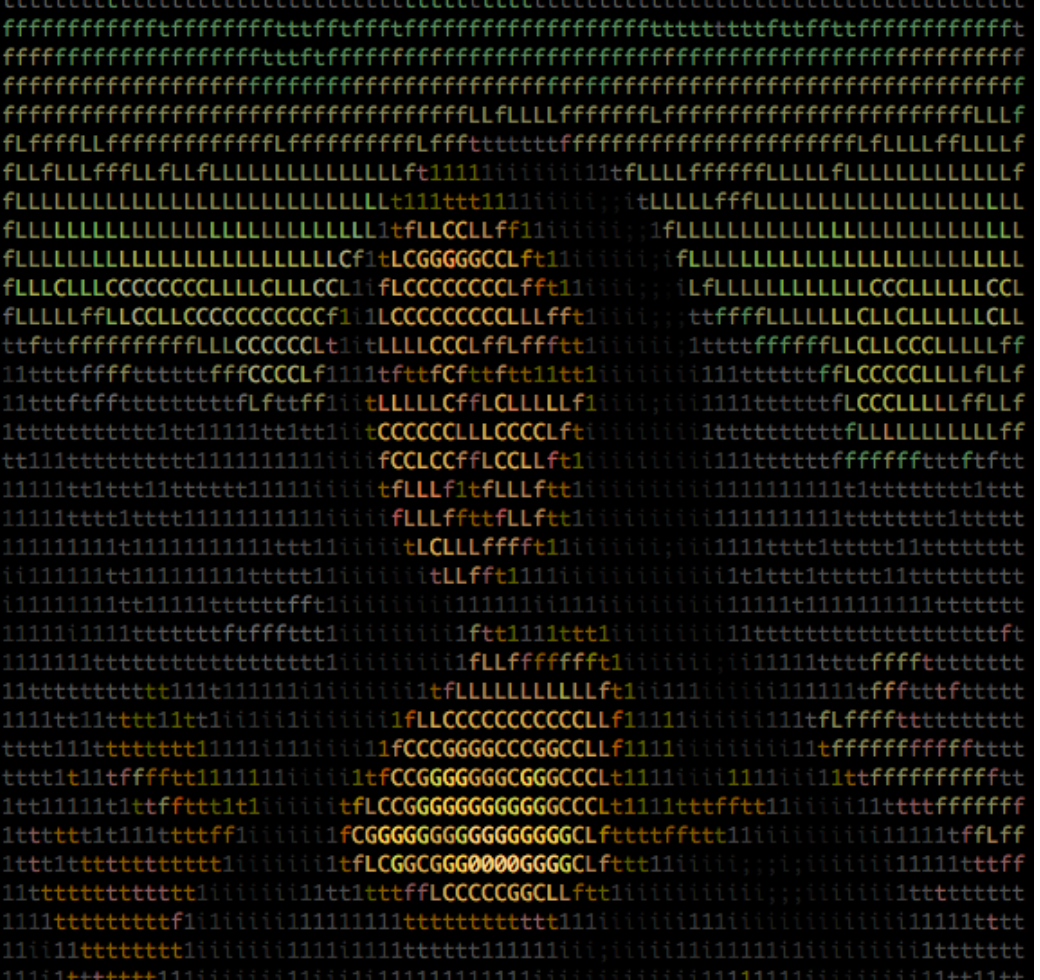
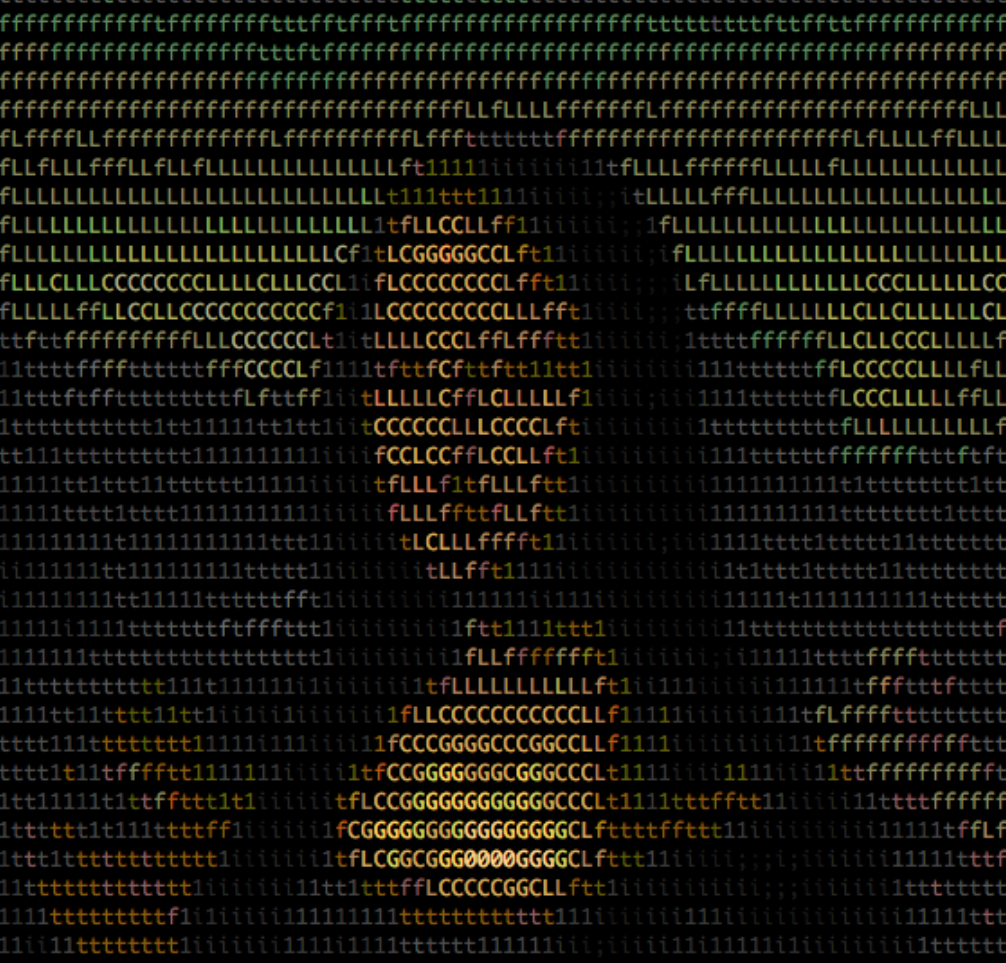
save before adding cloudinary

diff --git a/public/css/style.css b/public/css/style.css
@@ -25,68 +25,43 @@ body {
 	text-align: center;
 }
 
-
-/*--for Gallery Page--*/
-@font-face{font-family:'Calluna';
- src:url('https://s3-us-west-2.amazonaws.com/s.cdpn.io/4273/callunasansregular-webfont.woff') format('woff');
-}
-
-#galleryPage {
-	column-width: 320px;
-	column-gap: 15px;
-    width: 90%;
+#wrapper {
+	width: 90%;
 	max-width: 1100px;
+	min-width: 490px;
 	margin: 50px auto;
 }
 
-div#galleryPage figure {
-	background: #fefefe;
-	border: 2px solid #fcfcfc;
-	box-shadow: 0 1px 2px rgba(34, 25, 25, 0.4);
+#columns {
+	column-count: 4;
+	column-gap: 10px;
+	column-fill: auto;
+}
+
+.grid {
+	display: inline-block;
 	margin: 0 2px 15px;
+	columns-break-inside: avoid;
 	padding: 15px;
-	padding-bottom: 10px;
-	transition: opacity .4s ease-in-out;
-  	display: inline-block;
-  	column-break-inside: avoid;
+	transition: all 1s ease;
 }
 
-div#galleryPage figure img {
-	width: 100%; height: auto;
-	border-bottom: 1px solid #ccc;
-	padding-bottom: 15px;
-	margin-bottom: 5px;
+@media (max-width: 500px) {
+	#columns {
+	column-count: 1;
+	}
 }
 
-div#galleryPage figure figcaption {
-  		font-size: .9rem;
-	color: #444;
-  	line-height: 1.5;
+@media (min-width: 500px){
+	#columns {
+	column-count: 2;
+	}
 }
 
-div#galleryPage small { 
-  font-size: 1rem;
-  float: right; 
-  text-transform: uppercase;
-  color: #aaa;
-} 
-
-div#galleryPage small a { 
-  color: #666; 
-  text-decoration: none; 
-  transition: .4s color;
+@media (min-width: 900px) {
+	#columns {
+	column-count: 3;
+	}
 }
-
-div#galleryPage:hover figure:not(:hover) {
-	opacity: 0.4;
-}
-
-@media screen and (max-width: 750px) { 
-  #galleryPage { column-gap: 0px; }
-  #galleryPage figure { width: 100%; }
-}
-
-/*--End for Gallery Page--*/
-
 
 

diff --git a/controllers/ImageResult.js b/controllers/ImageResult.js
@@ -6,7 +6,7 @@ var request = require('request');
 
 
 router.get('/', function(req, res) {
-	var imgUrl = 'https://encrypted-tbn0.gstatic.com/images?q=tbn:ANd9GcS_AeqLZHbJOq-LmZ3UkJDRLv77Fo2RV-XKWiHM2xZ4MjJwx87ZzQ'
+	var imgUrl = 'https://farm8.static.flickr.com/7367/13891786227_b876e184cd_b.jpg'
 	request({
 		url: 'https://process.filestackapi.com/' + 
 		process.env.FIRE_STACK_KEY + '/ascii=background:black,colored:true,size:40/' + imgUrl

diff --git a/public/js/app.js b/public/js/app.js
@@ -1,4 +1,8 @@
 $( document ).ready(function(){
+
+	
+
+
 	$(".button-collapse").sideNav();
 	 $('.slider').slider({
 	 	// height: 300,
